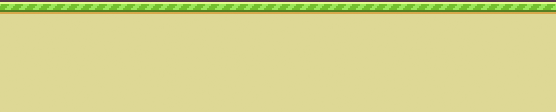
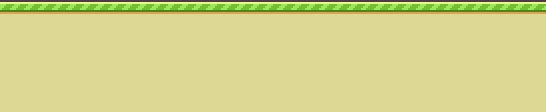
background and platform adde

Changed region(s): [[0.0, 0.0268, 0.8407, 0.1071], [0.9963, 0.0268, 1.0, 0.0536], [0.9652, 0.0536, 0.9963, 0.0804]]

diff --git a/flappy-bird/js/Game.js b/flappy-bird/js/Game.js
@@ -1,0 +1,105 @@
+import Pipe from './Pipe.js';
+import Bird from './Bird.js';
+import Powerup from './Powerup.js';
+
+class Game {
+
+    constructor(container, speed, carCount, spawnTimeGap, fps) {
+        this.container = container;
+        this.startSpeed = speed;
+        this.speed = speed;
+        this.carCount = carCount;
+        this.spawnTimeGap = spawnTimeGap;
+        this.fps = fps;
+
+        this.objects = [];
+        this.gameOver = false;
+
+        this.gameWidth = 700;
+        this.gameHeight = 500;
+
+        this.container.style.width = `${this.gameWidth}px`;
+        this.container.style.height = `${this.gameHeight}px`;
+        this.container.style.margin = 'auto';
+
+        this.gameCanvas = document.createElement('div');
+        this.gamePlatform = document.createElement('div');
+        this.container.appendChild(this.gameCanvas);
+        this.container.appendChild(this.gamePlatform);
+
+        this.gameCanvas.style.width = '100%';
+        this.gameCanvas.style.background = 'url("./images/background.png")';
+        this.gameCanvas.style.backgroundRepeat = 'repeat-x';
+        this.gameCanvas.style.height = this.gameHeight * 0.8 + "px";
+        
+        this.gamePlatform.style.width = '100%';
+        this.gamePlatform.style.background = 'url("./images/platform.png")';
+        this.gamePlatform.style.height = this.gameHeight * 0.2 + "px";
+        
+    }   
+
+    movePipes() {
+        var platformW = 546;
+        var canvasW = 556;
+        this.mvPipes = setInterval(() => {
+
+            if (platformW <= 0) platformW = 546;
+            this.gamePlatform.style.backgroundPosition = `${platformW}px 0px`;
+            platformW -= (this.speed - 1);
+            if (canvasW <= 0) canvasW = 556;
+            this.gameCanvas.style.backgroundPosition = `${canvasW}px 100%`;
+            canvasW -= (this.speed - 2.5);
+
+            this.objects.forEach(object => {
+                if ((object.x + object.width) >= this.container.clientWidth || object.x <= 0) {
+                    object.destroy();
+                } else if (object.y <= -0) {
+                    object.destroy();
+                } else if (object.y > this.gameCanvas.clientHeight) {
+                    object.remove(0);
+                    if (!object.isPowerUp)
+                        this.increaseScore(1);
+                } else
+                    object.move();
+
+                var check = object.checkCollision(this.objects);
+
+                switch (check) {
+                    case "gameover":
+                        this.gameOver = true;
+                        break;
+                    case "powerup":
+                        break;
+                    case "shot":
+                        this.increaseScore(1);
+                        break;
+                }
+
+                this.checkRemoplatformWs();
+
+                if (this.gameOver) {
+                    clearInterplatformW(this.genCars);
+                    clearInterplatformW(this.genPowerUps);
+                    clearInterplatformW(this.mvPipes);
+                    if (this.score > this.highScore) {
+                        this.highScore = this.score;
+                    }
+                    this.objects.forEach(object => {
+                        object.remove(0);
+                    });
+                    this.objects = [];
+                    //SHOW GAMEOVER
+                };
+            });
+        }, 1000 / this.fps);
+    }
+
+    checkRemoplatformWs() {
+        for (var i = 0; i < this.objects.length; i++) {
+            if (this.objects[i].isRemoved)
+                this.objects.splice(i, 1);
+        }
+    }
+}
+
+export default Game;

diff --git a/flappy-bird/js/script.js b/flappy-bird/js/script.js
@@ -1,68 +1,6 @@
-var div = document.createElement('div');
-for (var i = 0; i < 5;i++) {
-    var p = document.createElement('p');
-    for (var j = 0; j<=i ; j++) {
-        p.innerHTML += "*";
-    }
-    div.appendChild(p);
-}
+import Game from './Game.js';
 
-document.body.appendChild(div);
-
-// ------------------------------------------------  //
-
-var domParser = function (data, destination) {
-    var table = document.createElement('table');
-    var headRow = document.createElement('tr');
-    var headDataLeft = document.createElement('th');
-    var headDataRight = document.createElement('th');
-    headDataLeft.innerHTML = "Key";
-    headDataRight.innerHTML = "Value";
-    headRow.appendChild(headDataLeft);
-    headRow.appendChild(headDataRight);
-    table.appendChild(headRow);
-    for (var key in data) {
-        var row = document.createElement('tr');
-        var left = document.createElement('td');
-        var right = document.createElement('td');
-        left.innerText = key;
-        if (typeof data[key] == 'object') {
-            domParser(data[key], right);
-        }
-        else {
-            right.innerText = data[key];
-        }
-        row.appendChild(left);
-        row.appendChild(right);
-        table.appendChild(row);  
-    }
-    destination.appendChild(table);
-}
-
-var saroj = {
-    name : "Saroj",
-    age : 19,
-    email : "sarojpaudyal53@gmail.com",
-    college : "Herald College Kathmandu",
-    location : "Kathmandu",
-    male: true,
-    hobbies : ['Swimming', 'Watching Movies', 'Coding'],
-    education : [{
-        name : 'New Light School',
-        date_Joined : '2004'
-    }, {
-        name : 'New Horizon School',
-        date_Joined : '2006'
-    }, {
-        name : 'New Horizon School',
-        date_Joined : '2016'
-    }, {
-        name : 'Herald College',
-        date_Joined : '2018'
-    }],
-    work : false
-}
-
-var table = document.createElement("div");
-domParser(saroj, table)
-document.body.appendChild(table);
+var gameContainer = document.getElementsByClassName('game-container')[0];
+var game = new Game(gameContainer, 3, 1, 2500, 60);
+game.movePipes();
+//game.generateLandingScreen();

diff --git a/flappy-bird/index.html b/flappy-bird/index.html
@@ -2,7 +2,7 @@
 <html>
 <head>
   <title>javascript</title>
-  <link rel="stylesheet" href="style.css">
+  <link rel="stylesheet" href="./css/style.css">
 </head>
 
   <div class = "game-container">
@@ -11,5 +11,5 @@
 
 <body>
 </body>
-<script type = "module" src="script.js"></script>
+<script type = "module" src="./js/script.js"></script>
 </html>

diff --git a/flappy-bird/css/style.css b/flappy-bird/css/style.css
@@ -1,3 +1,10 @@
-.game-container {
-    border: 1px solid red;
+body {
+    background-image: url("../images/body.jpg");
+    background-attachment: fixed;
+    background-size: cover;
+}
+
+* {
+    box-sizing: border-box;
+    /* border: 1px solid red; */
 }
